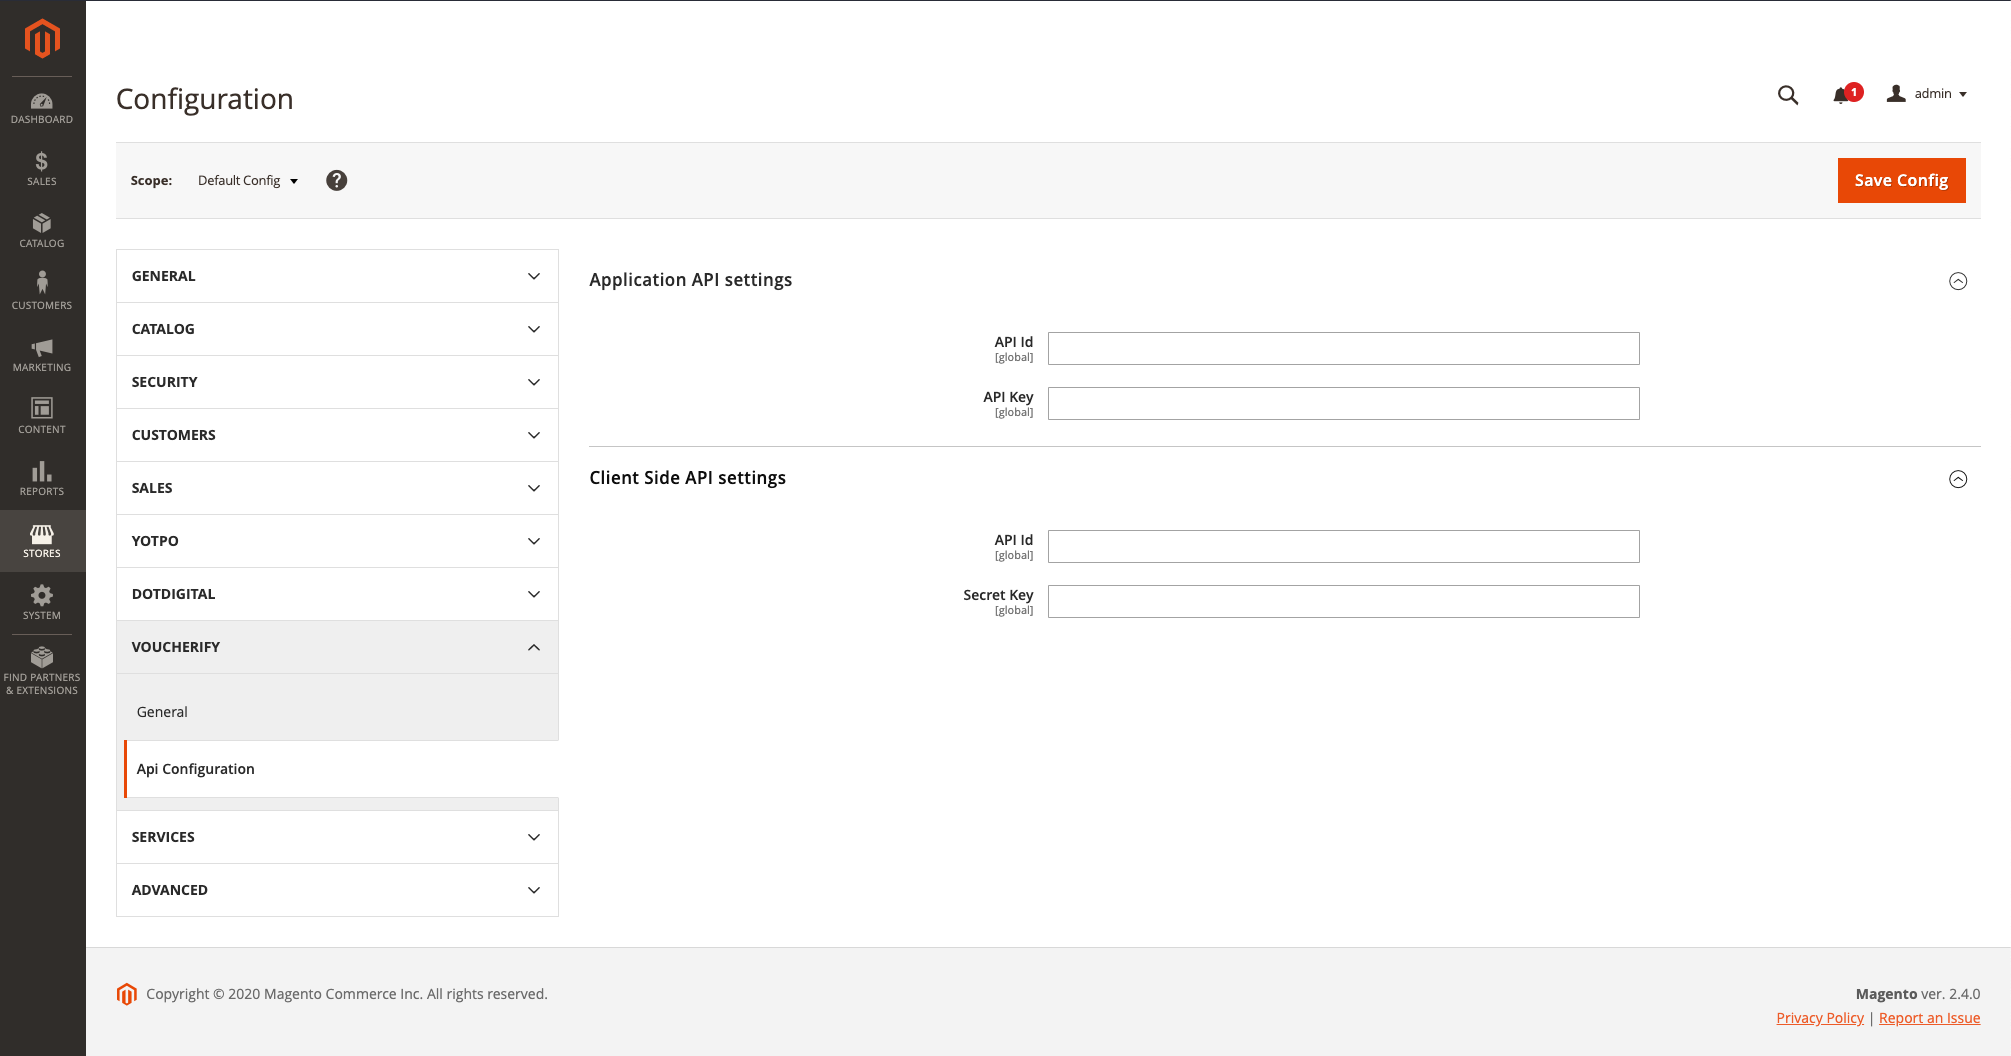
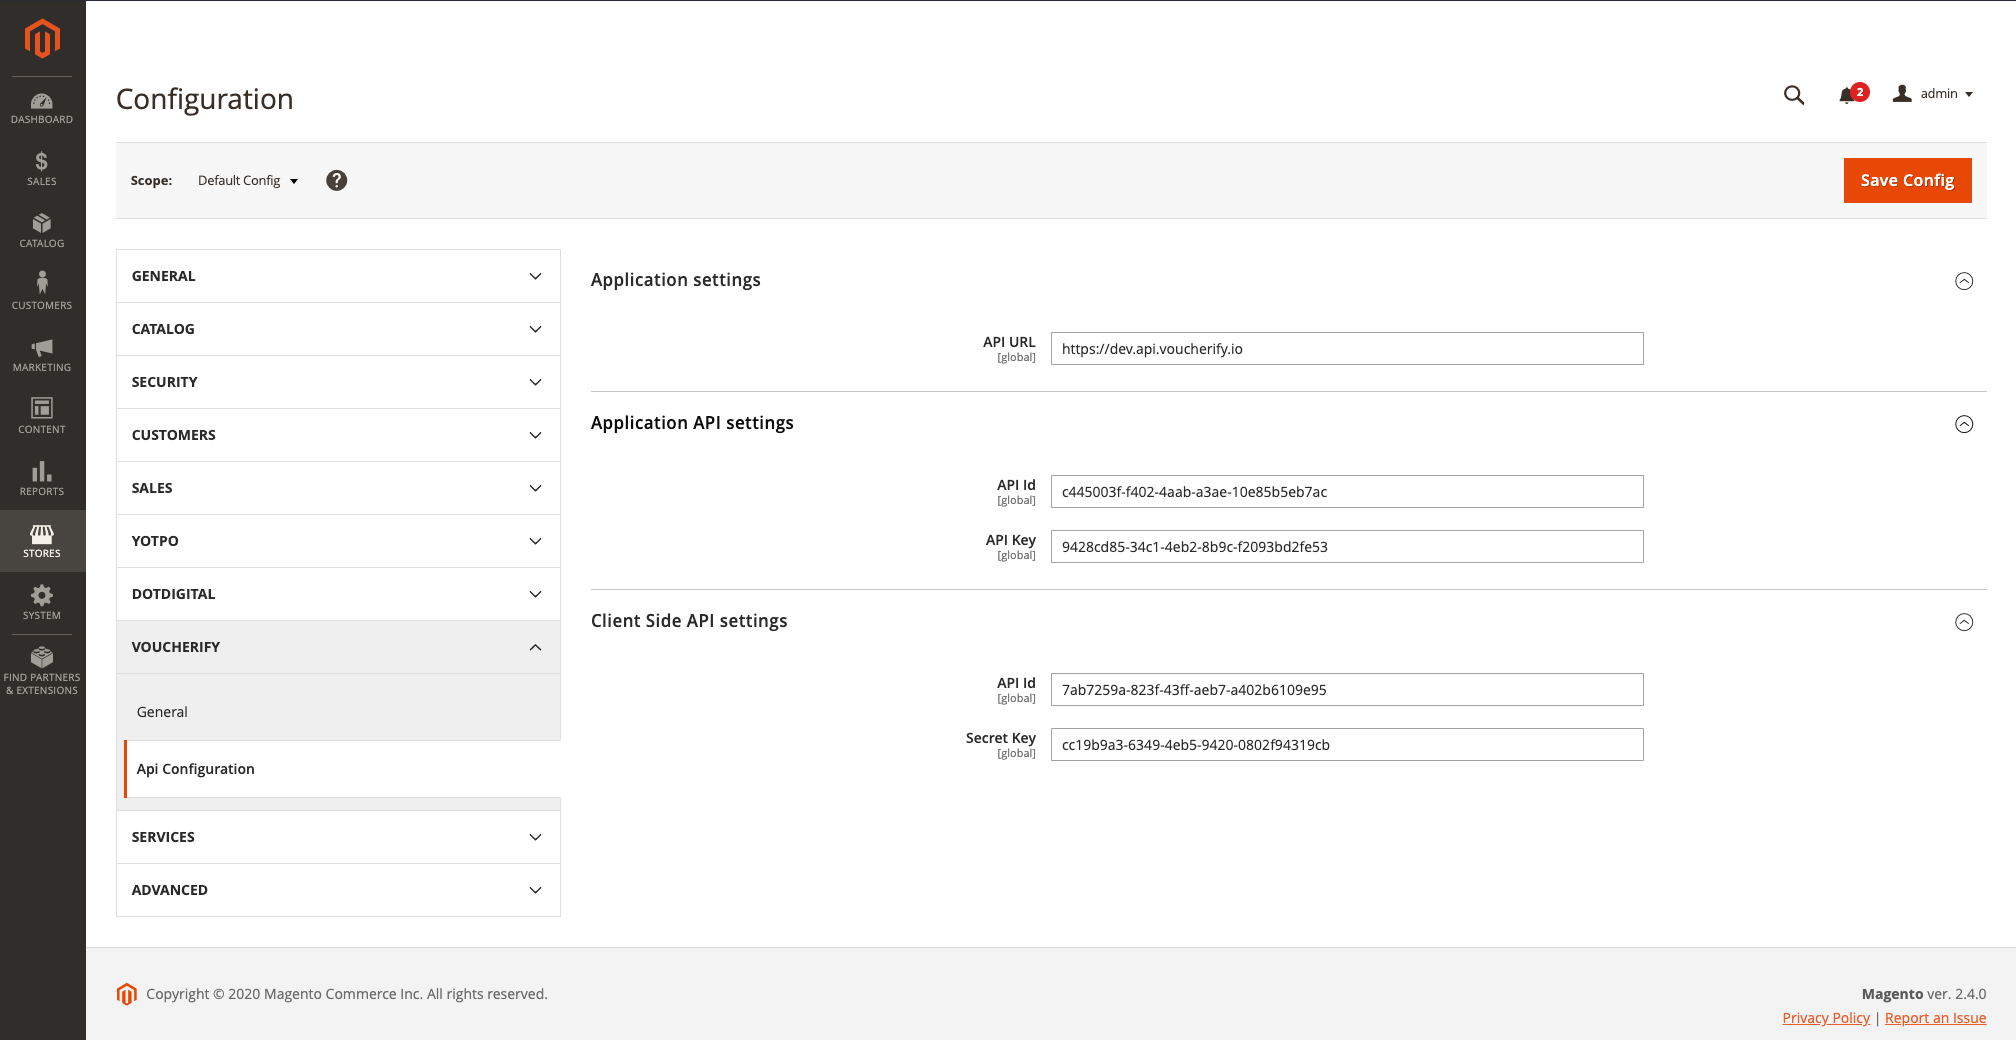
Settings: Allow to override voucheirfy app URL

diff --git a/view/frontend/web/js/lib/voucherify.js b/view/frontend/web/js/lib/voucherify.js
@@ -2,13 +2,18 @@ window.Voucherify = (function (window, document, $) {
     "use strict";
 
     var API_BASE = "https://api.voucherify.io";
+    var API = {};
 
-    var API = {
-        validate: API_BASE + "/client/v1/validate",
-        redeem:   API_BASE + "/client/v1/redeem",
-        publish:  API_BASE + "/client/v1/publish",
-        list:     API_BASE + "/client/v1/vouchers"
-    };
+    function setAPI (apiUrl) {
+        apiUrl = apiUrl || API_BASE;
+
+        API = {
+            validate: apiUrl + "/client/v1/validate",
+            redeem:   apiUrl + "/client/v1/redeem",
+            publish:  apiUrl + "/client/v1/publish",
+            list:     apiUrl + "/client/v1/vouchers"
+        };
+    }
 
     var OPTIONS = {};
 
@@ -203,7 +208,9 @@ window.Voucherify = (function (window, document, $) {
     }
 
     var voucherify = {
-        initialize: function (clientAppId, token, timeout) {
+        initialize: function (apiUrl, clientAppId, token, timeout) {
+            setAPI(apiUrl);
+
             OPTIONS.applicationId = clientAppId;
             OPTIONS.token = token;
             OPTIONS.timeout = timeout || 5000;

diff --git a/view/frontend/web/js/action/apply-voucher.js b/view/frontend/web/js/action/apply-voucher.js
@@ -148,6 +148,7 @@ define([
         }
 
         Voucherify.initialize(
+            config.clientSide.apiUrl,
             config.clientSide.apiId,
             config.clientSide.secretKey
         );

diff --git a/Helper/Api.php b/Helper/Api.php
@@ -50,12 +50,15 @@ class Api extends  AbstractHelper
     public function getClient()
     {
         if ($this->client === null) {
+            $apiUrl = $this->scopeConfig->getValue('voucherifyintegration_api/commons/api_url');
             $apiId = $this->scopeConfig->getValue('voucherifyintegration_api/backend/api_id');
             $apiKey = $this->scopeConfig->getValue('voucherifyintegration_api/backend/api_key');
             if ($apiId && $apiKey) {
                 $this->client = $this->objectManager->create(VoucherifyClient::class, [
                     'apiId' => $apiId,
-                    'apiKey' => $apiKey
+                    'apiKey' => $apiKey,
+                    'apiVersion' => null,
+                    'apiUrl' => $apiUrl,
                 ]);
             }
         }

diff --git a/Model/Ui/ClientSide/ConfigProvider.php b/Model/Ui/ClientSide/ConfigProvider.php
@@ -32,6 +32,7 @@ class ConfigProvider implements ConfigProviderInterface
         return [
             'voucherify' => [
                 'clientSide' => [
+                    'apiUrl' => $this->scopeConfig->getValue('voucherifyintegration_api/commons/api_url'),
                     'apiId' => $this->scopeConfig->getValue('voucherifyintegration_api/frontend/api_id'),
                     'secretKey' => $this->scopeConfig->getValue('voucherifyintegration_api/frontend/secret_key')
                 ],

diff --git a/README.md b/README.md
@@ -13,7 +13,10 @@
     $ bin/magento setup:upgrade
     $ bin/magento setup:di:compile
     $ bin/magento cache:clean
- ```
+
+    # Voucherify extension depends on Voucherify PHP SKD package. Please install it, by executing in addition:
+    $ composer require rspective/voucherify
+```
 
 ## Configuration
 
